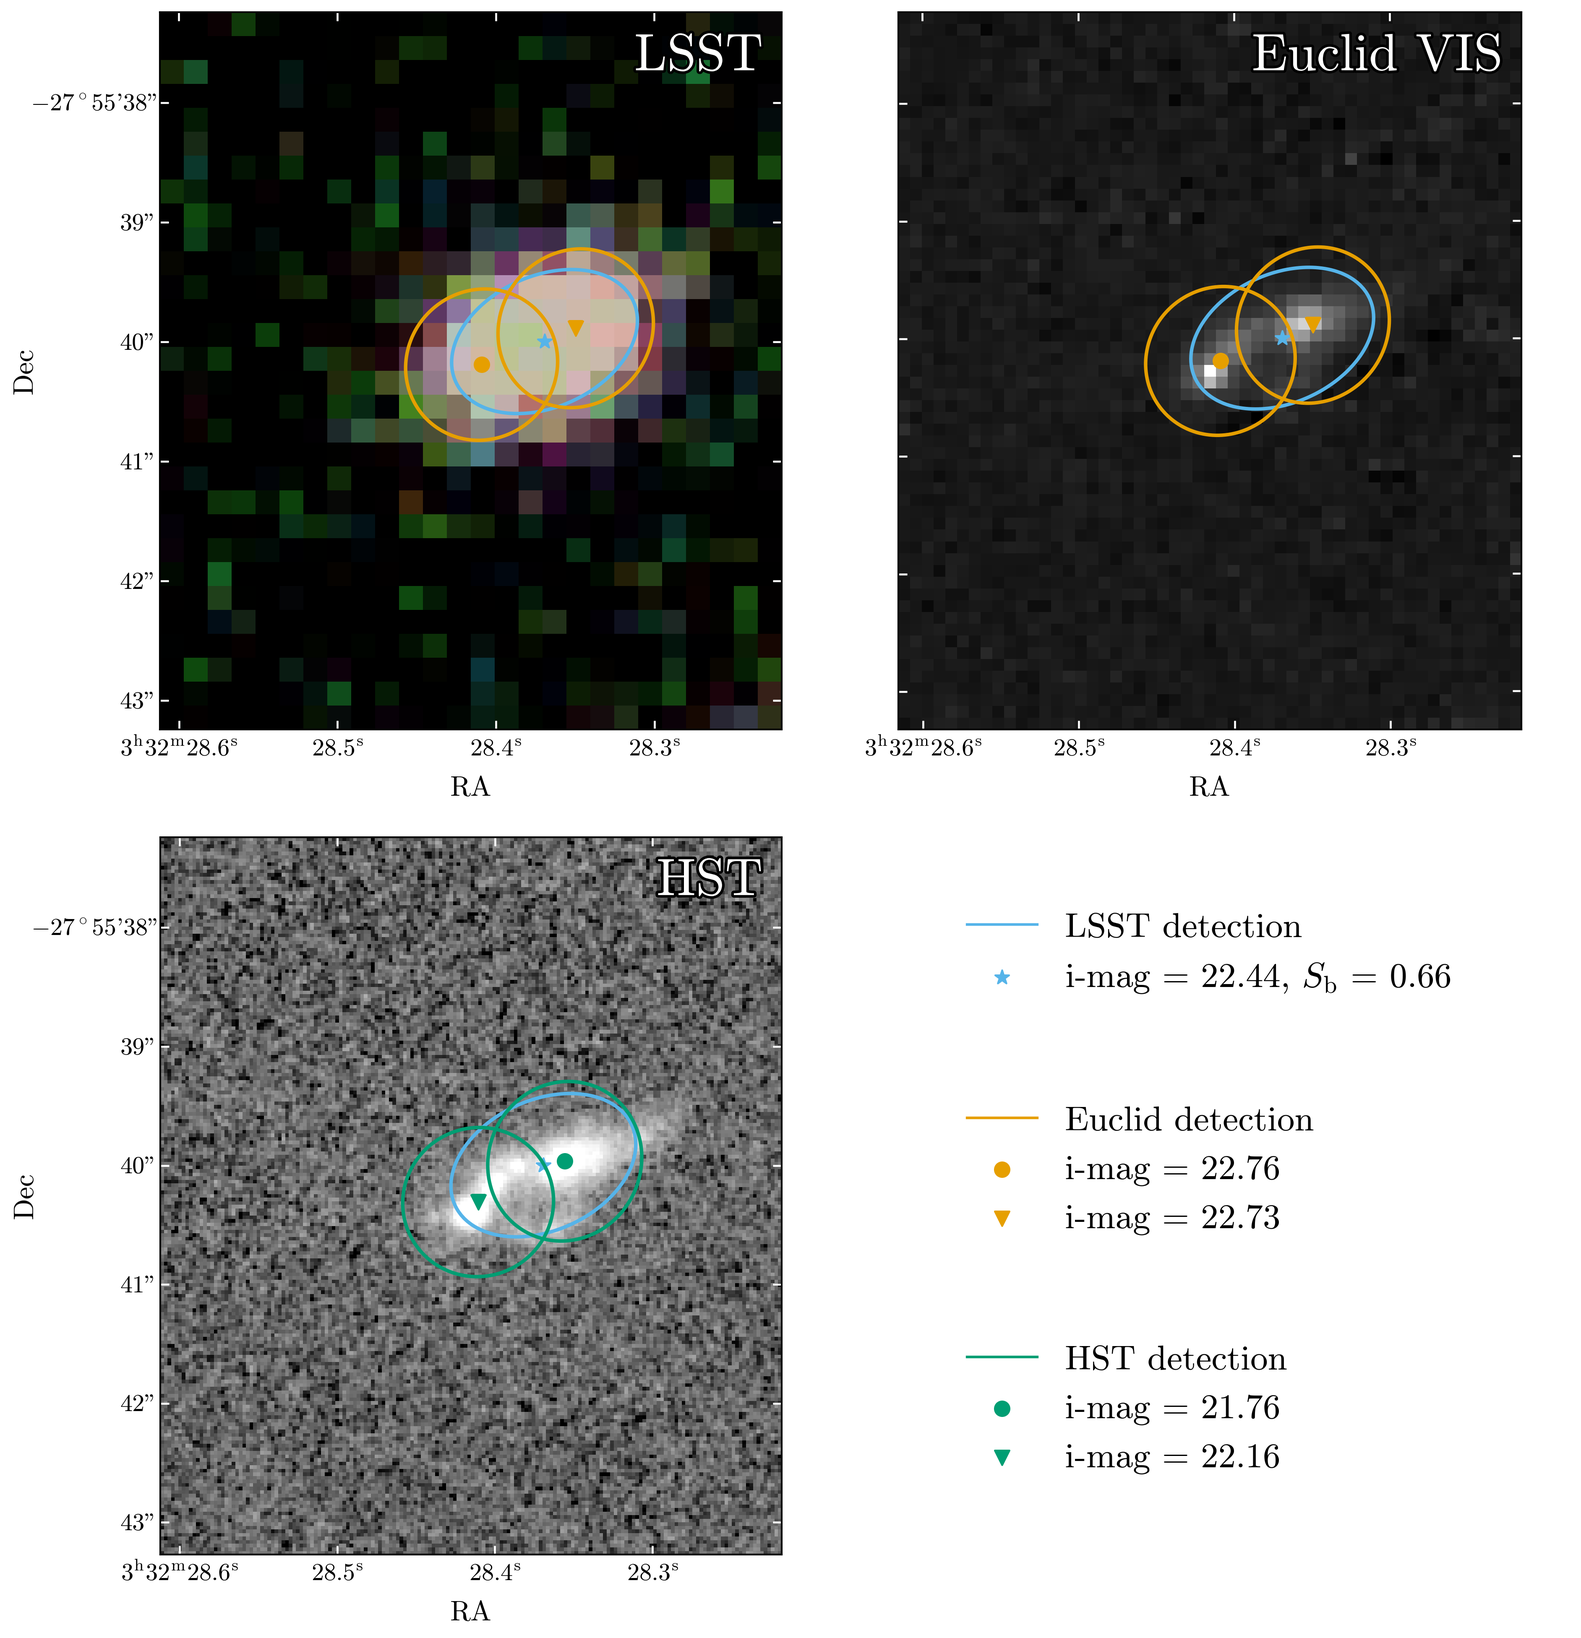
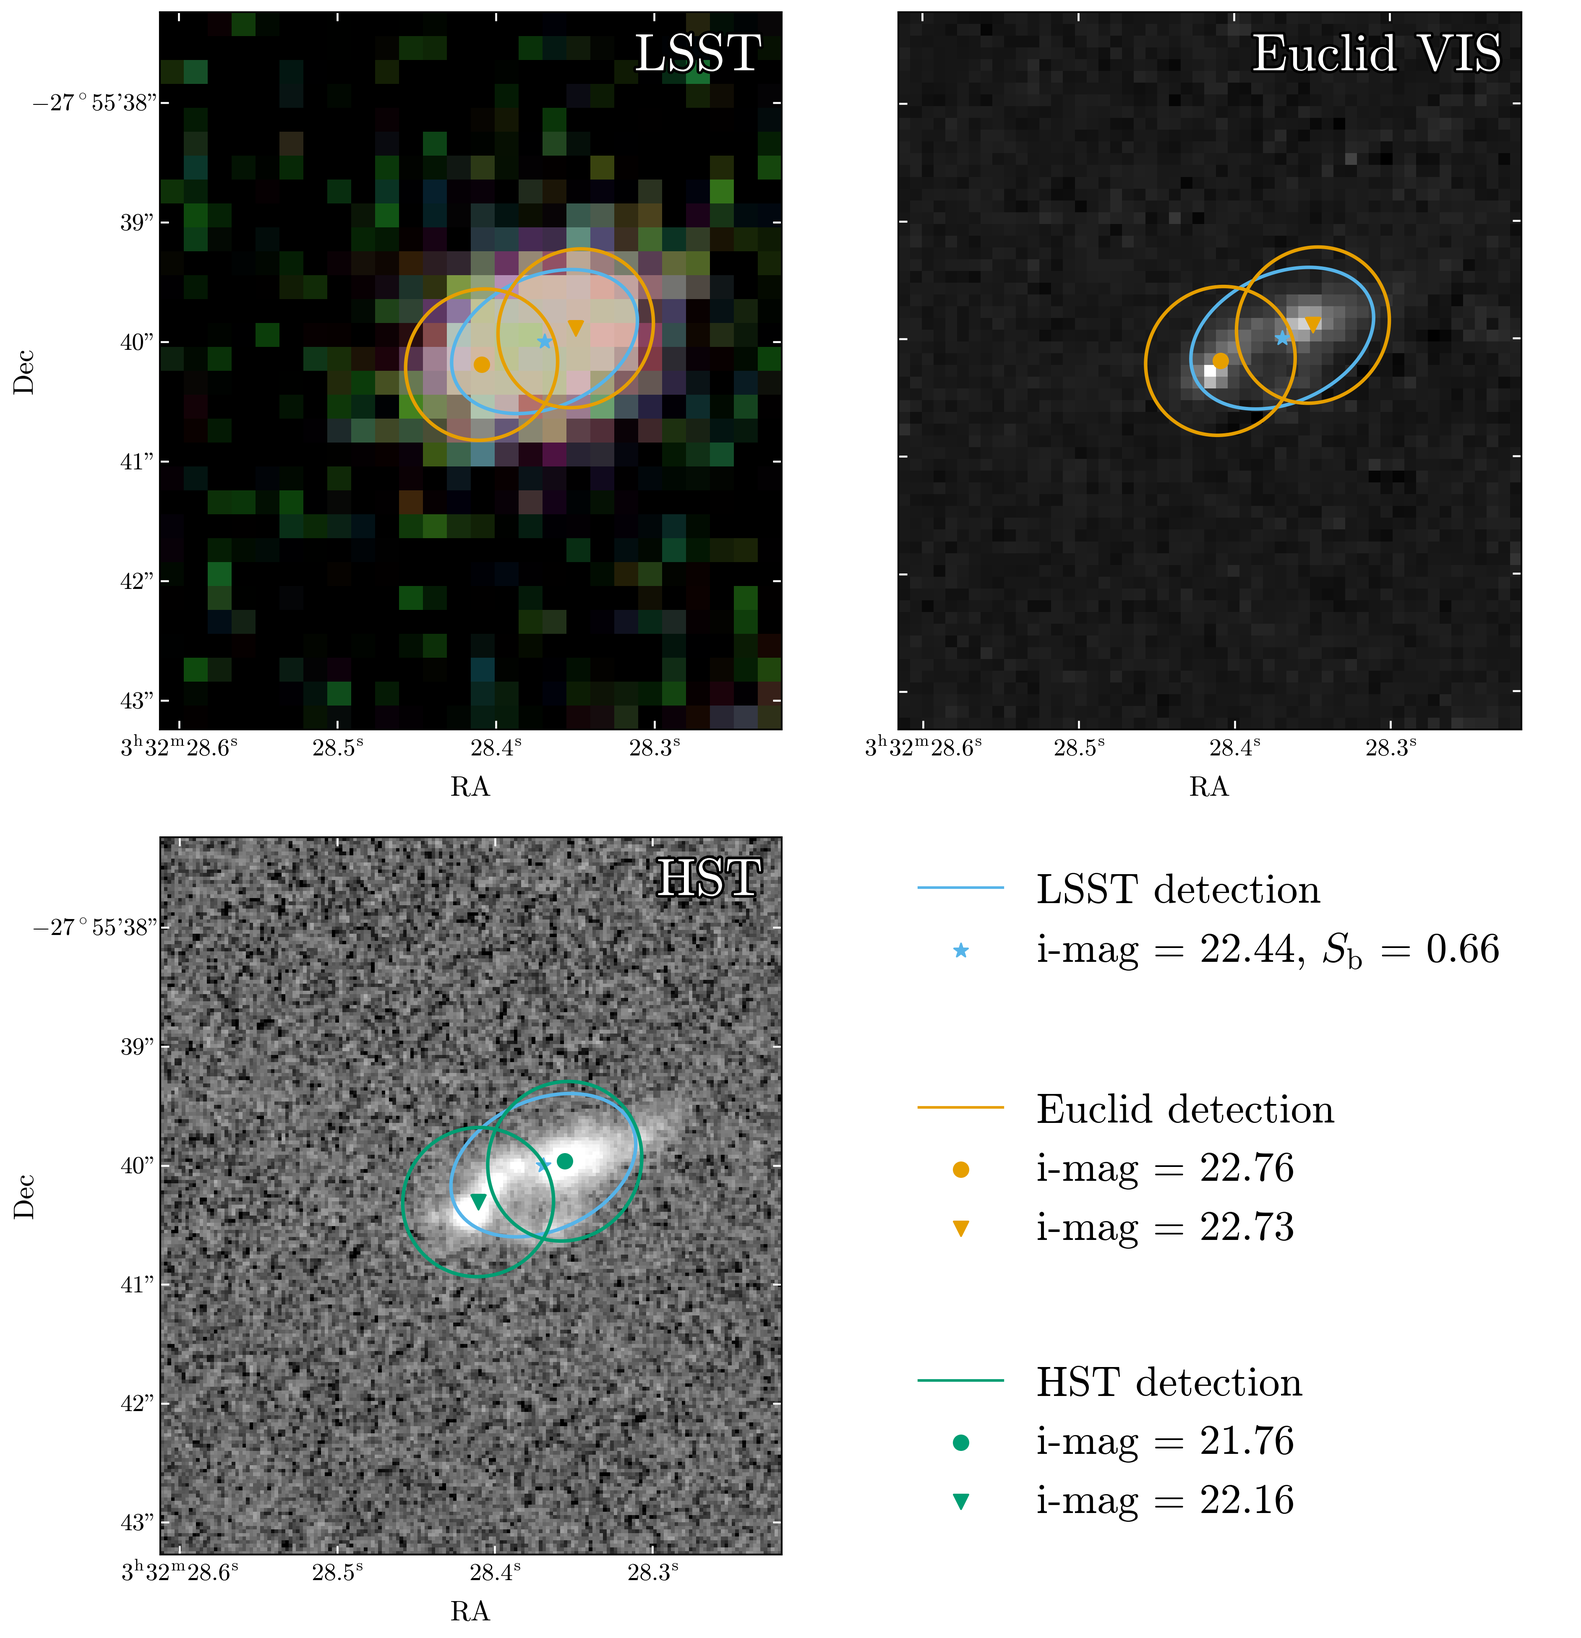
Added reference, made legend of images bigger and added discussion

diff --git a/index.md b/index.md
@@ -1,23 +1,12 @@
 # Unrecognized blends in LSST DP1 and DP2 from the comparison with Euclid and HST
 
-<!-- See the [Documenteer documentation](https://documenteer.lsst.io/technotes/index.html) for tips on how to write and configure your new technote. -->
-
-<!--
-Unrecognized blends, where the number of detected objects is smaller than the number of true sources, are a known issue in LSST data and a significant source of photometric error. In this technote, we present our methodology for identifying unrecognized blends in the LSST Data Previews 1 and 2 (hereafter DP1 and DP2, respectively) datasets by comparing them to high-resolution, space-based observations from the Euclid Q1 and Hubble Space Telescope (HST) in the Extended Chandra Deep Field South (ECDFS). By matching sources detected in the LSST data with those from the space telescopes, first by position and then by the overlap of their observed shapes, we quantify the fraction of sources that are blended in LSST but resolved in the space-based data. We find that up to 22% of sources in both DP1 and DP2 are unrecognized blends when compared to Euclid Q1 data at $23 < i$-band magnitude $< 24$. When compared to HST data, the fraction of unrecognized blends reaches up to 40% for the same magnitude range. Finally, we use the blending entropy $S_\text{b}$, which combines shape overlap with photometry, to quantify how ambiguous the galaxy association of each unrecognized blend is. It gives broadly consistent results for Euclid and HST down to the magnitude where Euclid, the shallower reference survey, becomes incomplete, reconciling the two comparisons: at $i \simeq$ 23.5, 19% of DP2 sources have $S_\text{b} > 0.2$ when compared to Euclid and 16% when compared to HST.
-``` -->
-
 ## Abstract
 Unrecognized blends, where the number of detected objects is smaller than the number of true sources, are a known issue in LSST data and a significant source of photometric error. In this technote, we present our methodology for identifying unrecognized blends in the LSST Data Previews 1 and 2 (hereafter DP1 and DP2, respectively) datasets by comparing them to high-resolution, space-based observations from the Euclid Q1 and Hubble Space Telescope (HST) in the Extended Chandra Deep Field South (ECDFS). By matching sources detected in the LSST data with those from the space telescopes, first by position and then by the overlap of their observed shapes, we quantify the fraction of sources that are blended in LSST but resolved in the space-based data. We find that up to 22% of sources in both DP1 and DP2 are unrecognized blends when compared to Euclid Q1 data at $23 < i$-band magnitude $< 24$. When compared to HST data, the fraction of unrecognized blends reaches up to 40% for the same magnitude range. Finally, we use the blending entropy $S_\text{b}$, which combines shape overlap with photometry, to quantify how ambiguous the galaxy association of each unrecognized blend is. It gives broadly consistent results for Euclid and HST down to the magnitude where Euclid, the shallower reference survey, becomes incomplete, reconciling the two comparisons: at $i \simeq$ 23.5, 19% of DP2 sources have $S_\text{b} > 0.2$ when compared to Euclid and 16% when compared to HST.
 
 
 ## Data
-<!-- ECDFS | LSST DP1 and DP2 (what changes between the two) | Euclid Q1 | HST -->
-<!-- The Extended Chandra Deep Field South (ECDFS) is a deep-sky survey field that has been observed by multiples telescopes at different wavelengths due to its low galactic obscuration {cite}`Lehmer05`. The LSST Data Preview 1 (DP1) {cite}`RTN-095` and Data Preview 2 (DP2) {cite}`RTN-115` both cover the ECDFS field.
 
-The LSST DP datasets both have a pixel scale of 0.2 arcsec/pixel while the Euclid Q1 data has a pixel scale of 0.1 arcsec/pixel and HST has a pixel scale of 0.05 arcsec/pixel. -->
-
-
-Blending, where multiple sources overlap in the sky, is expected to be a significant source of uncertainties for Stage-IV, ground-based surveys like LSST {cite}`Melchior21,Bosch18,Sanchez21`. A way to study blending is to compare data from different telescopes with different resolutions and depths.
+Blending, where multiple sources overlap in the sky, is expected to be a significant source of uncertainties for Stage-IV, ground-based surveys like LSST {cite}`Melchior21`. A way to study blending is to compare data from different telescopes with different resolutions and depths.
 
 The Extended Chandra Deep Field South (ECDFS) is a deep-sky survey field that has been observed by many telescopes at different wavelengths due to its low galactic obscuration {cite}`Lehmer05`. In this note we use imaging of the ECDFS from three facilities.
 
@@ -95,7 +84,7 @@ $p_\text{og}$ is the matching probability of object $o$ with a galaxy $g$, given
 :name: fig-high-sb-image
 :alt: High Sb
 
-Example of a high $S_\text{b}$ blend. Top: LSST DP2 cutout with $i,r,g$ bands corresponding to red, green and blue respectively. Middle: Euclid VIS. Bottom: HST F775W. The object from the LSST detection is represented by the blue ellipse and the galaxies from the Euclid detections by the orange ellipses.
+Example of a high $S_\text{b}$ blend. Top: LSST DP2 cutout with $i,r,g$ bands corresponding to red, green and blue respectively. Middle: Euclid VIS. Bottom: HST F775W.  The object from the LSST detection is represented by the blue ellipse, galaxies from the Euclid and HST detections are represented by the orange and green ellipses, respectively. Both detections from Euclid and HST were convolved with the LSST PSF to account for the difference in resolution between the two telescopes.
 ```
 
 {numref}`fig-high-sb-image` shows an example of a high blending entropy system with one object and two galaxies. The object overlaps with both galaxies and has a similar magnitude to both of them, making its association to any of the two galaxies ambiguous.
@@ -105,13 +94,13 @@ The blending entropy for this object is $S_\text{b} = 0.66$.
 :name: fig-low-sb-image
 :alt: Low Sb
 
-Example of a low $S_\text{b}$ blend. Top: LSST DP2 cutout with $i,r,g$ bands corresponding to red, green and blue respectively. Middle: Euclid VIS. Bottom: HST F775W.  The object from the LSST detection is represented by the blue ellipse and the galaxies from the Euclid detections by the orange ellipses.
+Example of a low $S_\text{b}$ blend. Top: LSST DP2 cutout with $i,r,g$ bands corresponding to red, green and blue respectively. Middle: Euclid VIS. Bottom: HST F775W.  The object from the LSST detection is represented by the blue ellipse, galaxies from the Euclid and HST detections are represented by the orange and green ellipses, respectively. Both detections from Euclid and HST were convolved with the LSST PSF to account for the difference in resolution between the two telescopes.
 ```
 
-Conversely, {numref}`fig-low-sb-image` shows an example of a low blending entropy system with one object and two galaxies. One of the Euclid detections overlaps almost entirely with the LSST detection, while the other is only partially overlapping and has a lower magnitude. The LSST detection is unambiguously associated with the first Euclid detection.
+Conversely, {numref}`fig-low-sb-image` shows an example of a low blending entropy system with one object and two galaxies. One of the Euclid detections overlaps almost entirely with the LSST detection, while the other is only partially overlapping and has a lower magnitude. The LSST detection is unambiguously associated with the low magnitude Euclid detection.
 The blending entropy for this object is $S_\text{b} = 0.08$.
 
-The blending entropy requires comparing magnitudes measured in the same band. The LSST DP datasets are observations from $u g r i z y$ bands, while Euclid and HST observe in the VIS and F814W bands (cf. {numref}`fig-bandpasses`). We fit the VIS and F814W magnitudes from the closest LSST bands: the $griz$ bands for the LSST-Euclid comparison and the $i$ band for the LSST-HST comparison. The fit coefficients are computed using only 1-1 systems, since their photometry is cleaner than that of multiple-to-one systems. The fit is then applied to every object in the LSST DP datasets.
+The blending entropy requires comparing magnitudes measured in the same band. The LSST DP datasets are observations from $u g r i z y$ bands, while Euclid and HST observed in the VIS and F814W bands ({numref}`fig-bandpasses`). We fit the VIS and F814W magnitudes to their closest LSST bands: the $griz$ bands for the LSST-Euclid comparison and the $i$ band for the LSST-HST comparison. The fit coefficients are computed using only 1-1 systems, since their photometry is cleaner than that of multiple-to-one systems. The fit is then applied to every object in the LSST DP datasets.
 
 
 For Euclid, we use the following fit on the colors defined as:
@@ -129,7 +118,7 @@ We decided to define $r_{\text{term}}$ as a piecewise linear function of $r$:
   where we define $a_0^{\text{high}} = a_0^{\text{low}} + (c_r^{\text{low}} - c_r^{\text{high}}) \cdot 22$ to ensure continuity at $r = 22$.
 
 For HST, we use the following fit on the $i$-band defined as:
-$\text{F814W}_{\text{pred}} = c_0 + c_{i} \cdot i$
+$\text{F814W}_{\text{fit}} = c_0 + c_{i} \cdot i$
 
 The fitted coefficients are given in {ref}`appendix-fit-coeffs`.
 
@@ -147,18 +136,7 @@ Verification of the VIS magnitude and F814W magnitude fits. Left: The x-axis is 
 
 ## Results
 
-From the matching of the LSST DP2 catalog with the Euclid and HST catalogs, we can compute the fraction of objects that belongs in unrecognized blends, meaning, the fraction of objects that belong in a group where there is more galaxies than objects, as a function of magnitude. We also compute the fraction of high blending entropy objects, which are those with $S_\text{b} > 0.2$, as a function of magnitude.
-
-<!-- ```{figure} ./assets/plots/triplot_mag_unrec_sb.png
-:name: fig-unrec-frac
-:alt: Fraction of unrecognized blends as a function i-band magnitude
-:width: 100%
-
-Top: Distribution of detection magnitudes for LSST (blue), Euclid (orange) and HST (green) in ECDFS. Since the observation bands of these telescopes do not cover the same wavelength ranges, a fit was made to compare them consistently using the LSST $i$-band as a reference. Middle: Fraction of unrecognized blends as a function of magnitude in LSST DP2 with either Euclid or HST as reference space-based data. Bottom: Fraction of high $S_\text{b}$ blends in LSST DP2 with either Euclid or HST as reference space-based data.
-```
-
-{numref}`Fig. %s-a) <fig-unrec-frac>` shows that the HST observations are much deeper than those of the LSST and Euclid surveys. This explains the discrepancy in the {numref}`Fig. %s-b) <fig-unrec-frac>` with the higher fraction of unrecognized blends for all magnitudes for HST: in these cases, objects detected as a single object by LSST are actually composed of one very bright object and another that is much fainter which HST detects but Euclid does not. Moreover, the fraction of unrecognized blends increases with magnitude for both Euclid and HST, as expected since fainter objects are more likely to be blended. This trend fails at $i = 23.5$ magnitude when using Euclid as the reference, we interpret this as the intrumental limitation of Euclid where it cannot detect the fainter object of the blend. The fraction of unrecognized blends goes above 20% for Euclid, which is consistent with the results reported by {cite:t}`SITCOMTN-128`.
-{numref}`Fig. %s-c) <fig-unrec-frac>` shows the fraction of objects that have a higher blending entropy than the two cuts choosen. The first one, $S_\text{b} > 0.0$ removes all the 1-1 systems that, by definition, have a blending entropy of 0. The second one, $S_\text{b} > 0.2$ removes all the systems that have a low blending entropy and are therefore not ambiguous in their galaxy association (see the work reported by {cite:t}`Ramel26` for more justification on this cut value). After making the $S_\text{b} > 0.2$, we find that the fraction of problematic blends (ambiguous match, high $S_\text{b}$) is consistent between the two reference surveys until Euclid magnitude limit. This explains the discrepancy between the two curves in {numref}`Fig. %s-b) <fig-unrec-frac>` for $i < 23.5$: the fraction of unrecognized blends is higher for HST because it detects more faint galaxies that are not detected by Euclid, but these blends are not ambiguous in their galaxy association, the LSST pipeline does detect the more luminous galaxy of the blend unambiguously. -->
+From the matching of the LSST DP2 catalog with the Euclid and HST catalogs, we can compute the fraction of objects that belongs in blends as a function of magnitude. The $S_\text{b} > 0$ cut effectively removes the $S_\text{b} = 0$ objects which are the ones that belong in 1-1 systems by definition of the blending entropy. We also compute the fraction of high blending entropy objects, which are those with $S_\text{b} > 0.2$, as a function of magnitude.
 
 ```{figure} ./assets/plots/duo_plot_mag_highsb.png
 :name: fig-mag-highsb
@@ -168,23 +146,24 @@ Top: Distribution of detection magnitudes for LSST (blue), Euclid (orange) and H
 Top: Distribution of detection magnitudes for LSST (blue), Euclid (orange) and HST (green) in ECDFS. Since the observation bands of these telescopes do not cover the same wavelength ranges, a fit was made to compare them consistently using the LSST $i$-band as a reference. Bottom: Fraction of high $S_\text{b}$ blends in LSST DP2 with either Euclid or HST as reference space-based data.
 ```
 
-{numref}`Fig. %s-a) <fig-mag-highsb>` shows that the HST observations are much deeper than those of the LSST and Euclid surveys. This explains the discrepancy in the {numref}`Fig. %s-b) <fig-mag-highsb>` with the higher fraction of overlapping galaxies ($S_\text{b} > 0$) for all magnitudes for HST: in these cases, objects detected as a single object by LSST are often composed of one very bright object and another that is much fainter which HST detects but Euclid does not. Moreover, the fraction of overlapping galaxies increases with magnitude for both Euclid and HST, as expected since fainter objects are more likely to be blended. This trend fails at $i = 23.5$ magnitude when using Euclid as the reference, we interpret this as the intrumental limitation of Euclid where it cannot detect the fainter object of the blend. The fraction of unrecognized blends goes above 20% for Euclid, which is consistent with the results reported by {cite:t}`SITCOMTN-128`.
+{numref}`Fig. %s-a) <fig-mag-highsb>` shows that the HST observations are much deeper than those of the LSST and Euclid surveys. This explains the discrepancy in the {numref}`Fig. %s-b) <fig-mag-highsb>` with the higher fraction of overlapping galaxies ($S_\text{b} > 0$) for all magnitudes for HST: in these cases, objects detected as a single object by LSST are often composed of one very bright object and another that is much fainter which HST detects but Euclid does not. Moreover, the fraction of overlapping galaxies increases with magnitude for both Euclid and HST, as expected since fainter objects are more likely to be blended. This trend fails at $i = 23.5$ magnitude when using Euclid as the reference, we interpret this as the intrumental limitation of Euclid where it cannot detect the fainter object of the blend. The fraction of unrecognized blends goes above 20% for Euclid, which is consistent with the results reported by {cite:t}`SITCOMTN-128` and {cite:t}`Troxel23`.
 
-$S_\text{b} > 0.2$ removes all the systems that are not ambiguous in their galaxy association (see the work reported by {cite:t}`Ramel26` for more justification on this cut value). After making the $S_\text{b} > 0.2$, we find that the fraction of problematic blends (ambiguous match, high $S_\text{b}$) is consistent between the two reference surveys until Euclid magnitude limit. This explains the discrepancy between the two curves in {numref}`Fig. %s-b) <fig-mag-highsb>` for $i < 23.5$: the fraction of unrecognized blends is higher for HST because it detects more faint galaxies that are not detected by Euclid, but these blends are not ambiguous in their galaxy association, the LSST pipeline does detect the more luminous galaxy of the blend unambiguously.
-
-
+The cut $S_\text{b} > 0.2$ removes all systems whose galaxy association is unambiguous (see {cite:t}Ramel26 for a detailed justification of this threshold). After applying it, we find that the fraction of problematic blends (those with an ambiguous match and therefore high $S_\text{b}$) is consistent between the two reference surveys up to the Euclid magnitude limit.
+This explains the discrepancy between the two curves in {numref}`Fig. %s-b) <fig-mag-highsb>` for $i < 23.5$: the fraction of unrecognized blends is higher for HST because it detects more faint galaxies that are not detected by Euclid, but these blends are not ambiguous in their galaxy association, the LSST pipeline does detect the more luminous galaxy of the blend unambiguously.
 
 ## Discussion
 
-<!--
-- mention the fact that image quality in DR1 is expected to be better htan in Dp2 so we expect (much) less blending
-- mention test on image quality in future studies
-- this will impact shear calibration for DESCf
--->
+In this technote, we matched LSST DP2 objects to Euclid Q1 and HST galaxies in the ECDFS with a FoF + EOT procedure, found that unrecognized blends make up 13.8% of objects when using Euclid as space-based reference data and 38.7% when using HST as reference. We used the blending entropy $S_\text{b}$ to show that the two reference surveys give consistent fractions of ambiguous blends up to the Euclid magnitude limit.
 
-(appendix-fit-coeffs)=
+The blend fractions reported here apply to DP2 and should be regarded as an upper bound for later LSST data releases. The image quality in DR1 is expected to be significantly better than in DP2, which reduces the overlap between neighbouring sources and should therefore yield lower unrecognized blend fractions {cite}`Bosch18,Sanchez21`.
+We are working on follow-up repeating this analysis as a function of image quality to quantify directly how the blend fractions improve as the delivered image quality evolves.
+
+Unrecognized blends are an important systematic for weak lensing, since the shapes measured for blended systems are biased and this bias propagates to the shear estimates {cite}`MacCrann22`. The blend fractions measured here are therefore directly relevant to the shear calibration for DESC, and an improvement in image quality between DP2 and DR1 should translate into a smaller blending-induced calibration correction.
+
+
 ## Appendix
 
+(appendix-fit-coeffs)=
 ### Coefficients of the magnitude fits
 
 Euclid VIS fit:
